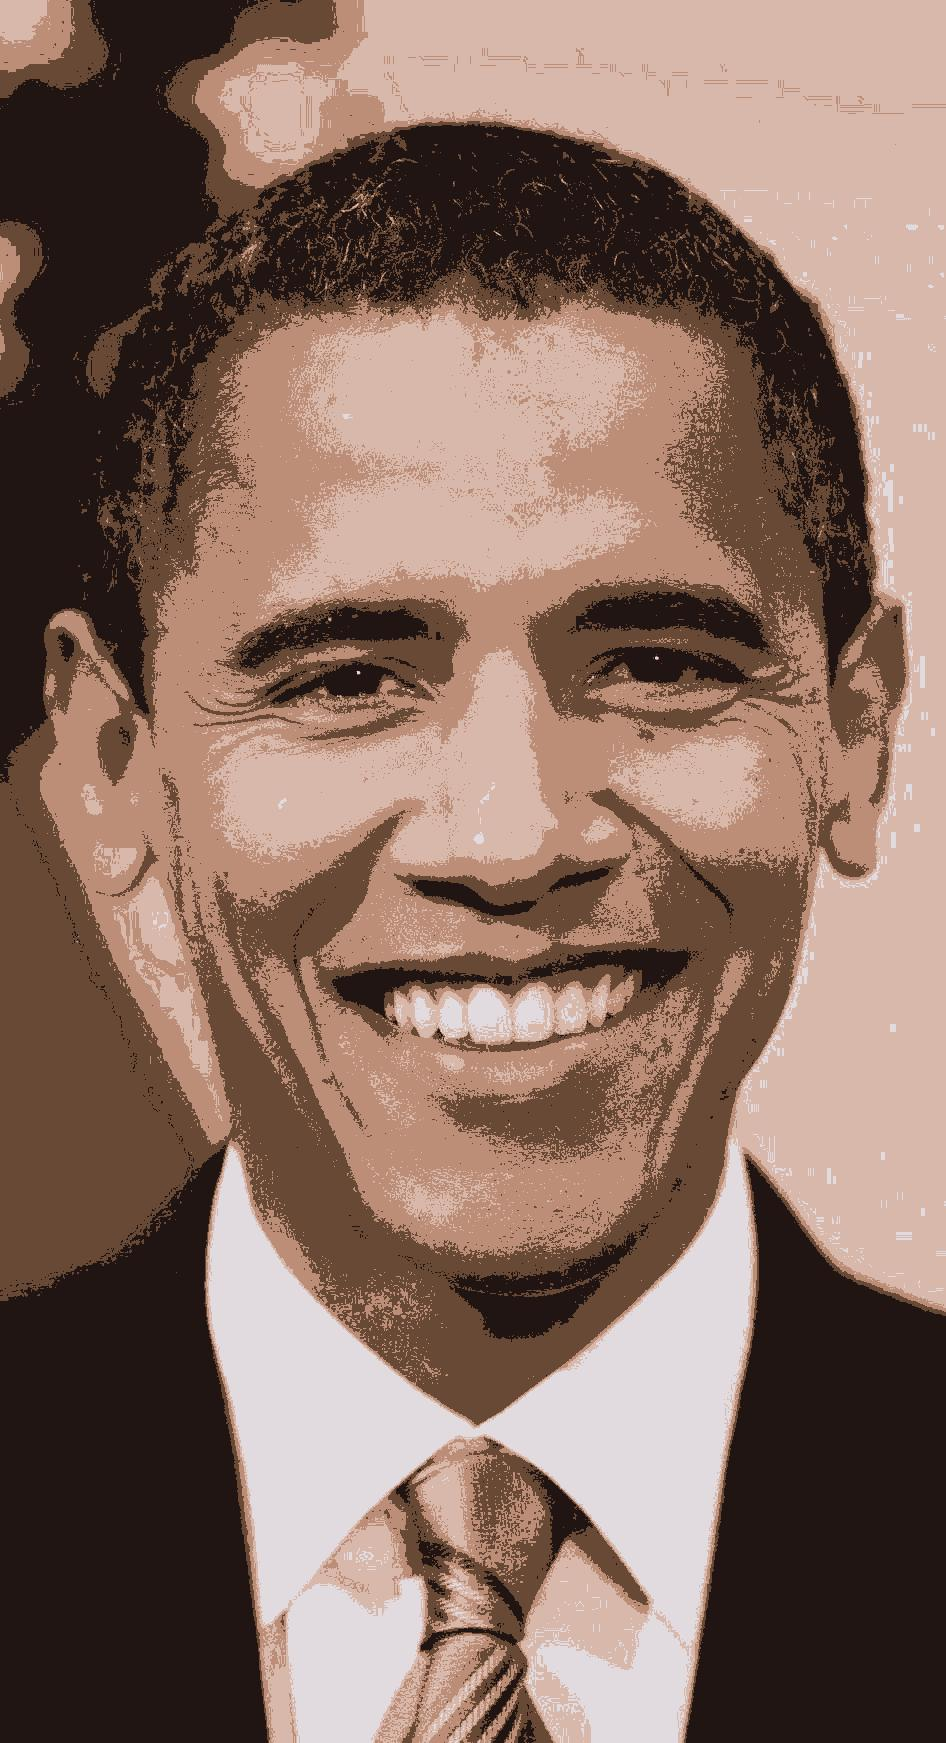
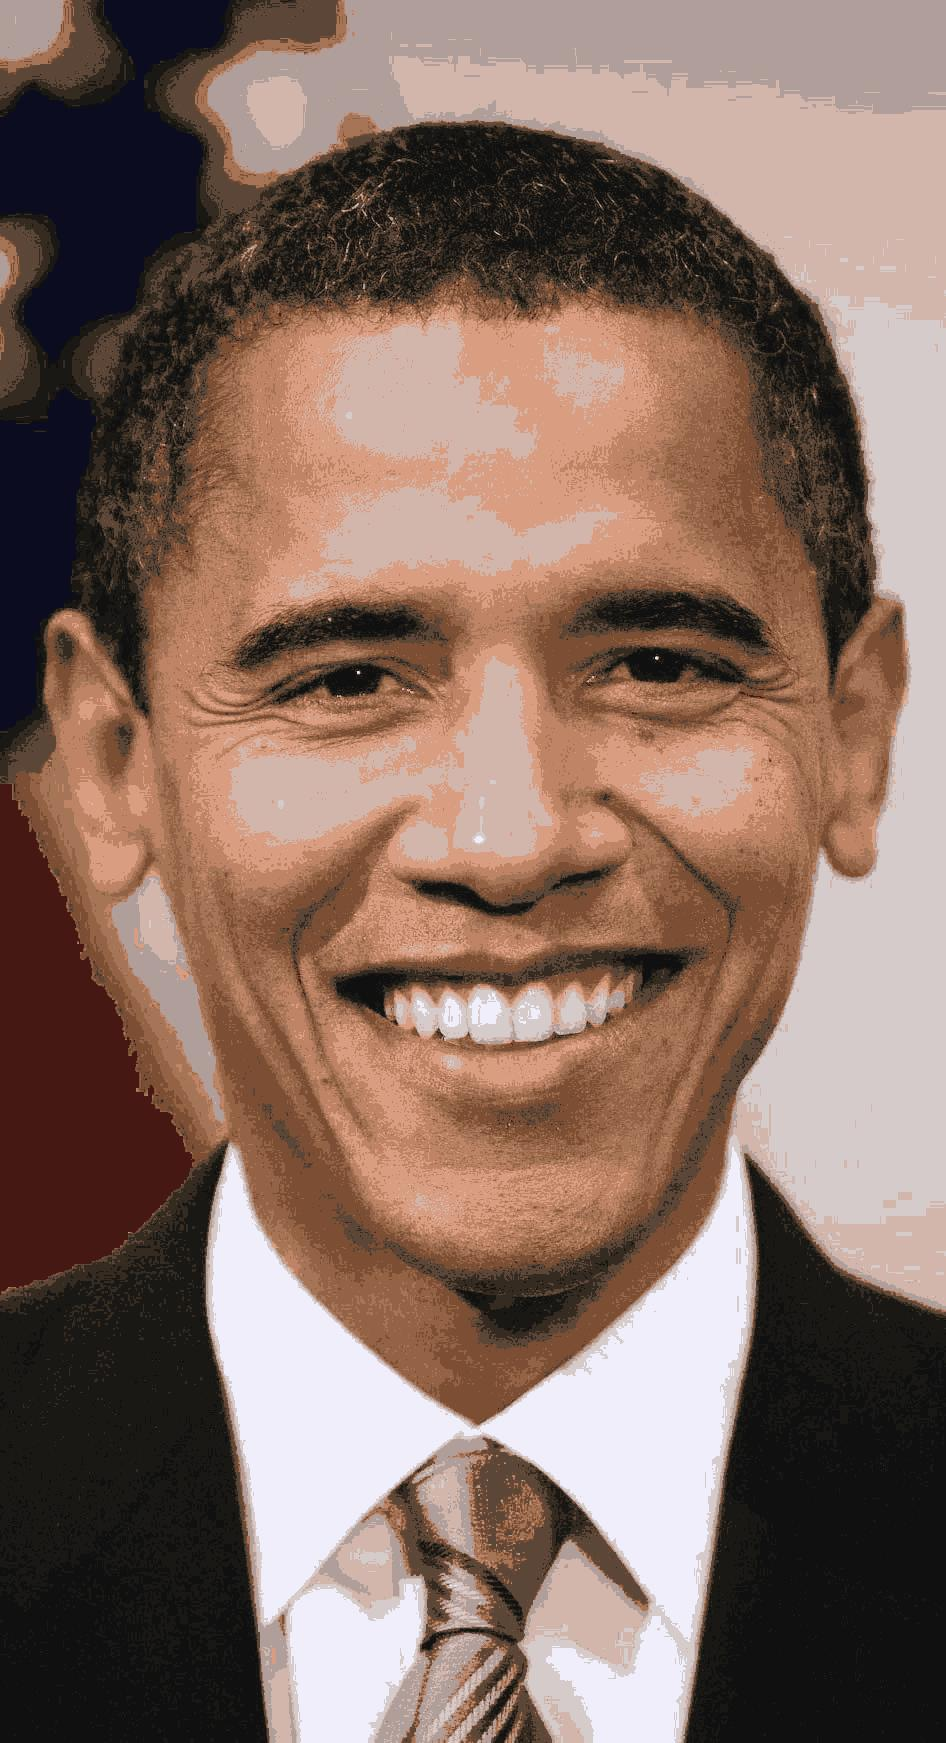
less generalization for color quantization

diff --git a/compress.py b/compress.py
@@ -56,7 +56,7 @@ def haar_cascade(img):
     img = cv2.imread(img)
     faces = classifier.detectMultiScale(img) # result
     # to draw faces on image
-    print(faces)
+    #print(faces)
     if len(faces) > 0:
         result = faces[0]
         x, y, w, h = result
@@ -110,13 +110,17 @@ def main(portraits, option = "color_quantization"):
             # check if portrait is identifiable as human
             if isHuman(portrait, orig_coordinates, scale = flag):
                 if option == "color_quantization":
-                    if numColors <= 25:
+                    if numColors <= 2:
                         break
-                    numColors -= 25
+                    if numColors >= 25:
+                        numColors -= 15
+                    else:
+                        numColors -= 1
                     newImg = colorQuantizeImg(portrait, numColors)
                     newImg.save(portrait)
                     
                 elif option == "sampling":
+                    percent -= 0.1
                     newHeight = int(height * percent)
                     newWidth = int(width * percent)
 
@@ -124,7 +128,6 @@ def main(portraits, option = "color_quantization"):
                         break
                     newImg = sampleImg(portrait, newWidth, newHeight)
                     newImg.save(portrait)
-                    percent -= 0.1
                     
                 else:
                     print("Please pick either color_quantization or sampling.")
